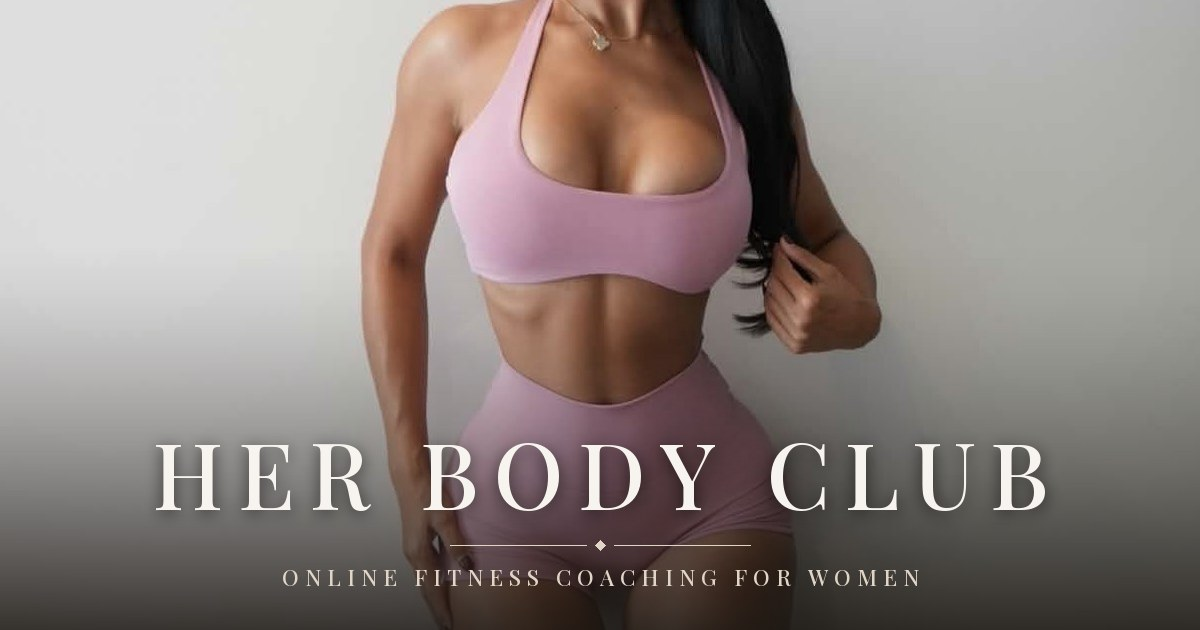
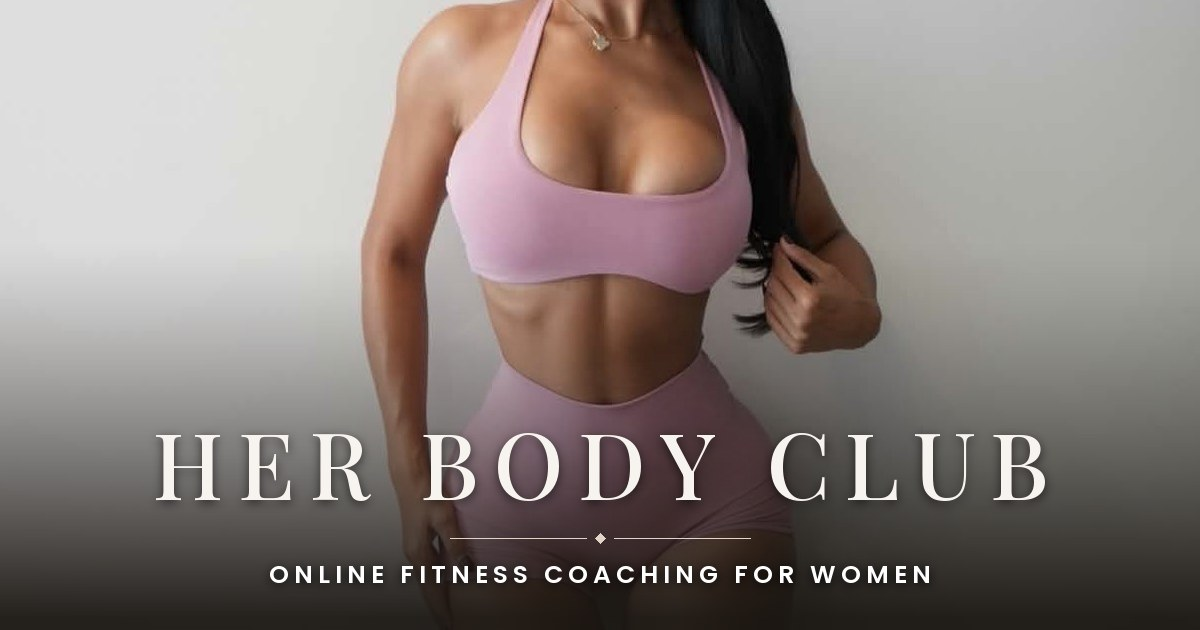
og-desp1

Changed region(s): [[0.0, 0.6635, 0.8017, 0.9952], [0.6475, 0.6635, 0.8942, 0.8143], [0.6475, 0.754, 0.8017, 0.8143]]

diff --git a/apply.html b/apply.html
@@ -8,16 +8,17 @@
   <!-- Open Graph / Social Sharing -->
   <meta property="og:type"        content="website" />
   <meta property="og:title"       content="Apply for 1:1 Coaching | HER BODY CLUB" />
+  <meta property="og:description" content="Lose 10–20 lbs, Build a leaner, stronger body you love seeing in photos and showing off on holiday, without spending hours in the gym or giving up dinners out and the foods you love." />
   <meta property="og:url"         content="https://www.herbodyclub.com/apply.html" />
   <meta property="og:site_name"   content="HER BODY CLUB" />
-  <meta property="og:image" content="https://www.herbodyclub.com/images/og-cover.jpg" />
-  <meta property="og:image:secure_url" content="https://www.herbodyclub.com/images/og-cover.jpg" />
+  <meta property="og:image" content="https://www.herbodyclub.com/images/og-cover.jpg?v=2" />
+  <meta property="og:image:secure_url" content="https://www.herbodyclub.com/images/og-cover.jpg?v=2" />
   <meta property="og:image:type" content="image/jpeg" />
   <meta property="og:image:width" content="1200" />
   <meta property="og:image:height" content="630" />
   <meta property="og:image:alt" content="HER BODY CLUB — Online Fitness Coaching for Women" />
   <meta name="twitter:card" content="summary_large_image" />
-  <meta name="twitter:image" content="https://www.herbodyclub.com/images/og-cover.jpg" />
+  <meta name="twitter:image" content="https://www.herbodyclub.com/images/og-cover.jpg?v=2" />
 
   <link rel="preconnect" href="https://fonts.googleapis.com" />
   <link rel="preconnect" href="https://fonts.gstatic.com" crossorigin />

diff --git a/index.html b/index.html
@@ -9,10 +9,11 @@
   <!-- Open Graph / Social Sharing -->
   <meta property="og:type" content="website" />
   <meta property="og:title" content="Her Body Club | Online Fitness Coaching for Women" />
+  <meta property="og:description" content="Lose 10–20 lbs, Build a leaner, stronger body you love seeing in photos and showing off on holiday, without spending hours in the gym or giving up dinners out and the foods you love." />
   <meta property="og:url" content="https://www.herbodyclub.com/" />
   <meta property="og:site_name" content="HER BODY CLUB" />
-  <meta property="og:image" content="https://www.herbodyclub.com/images/og-cover.jpg" />
-  <meta property="og:image:secure_url" content="https://www.herbodyclub.com/images/og-cover.jpg" />
+  <meta property="og:image" content="https://www.herbodyclub.com/images/og-cover.jpg?v=2" />
+  <meta property="og:image:secure_url" content="https://www.herbodyclub.com/images/og-cover.jpg?v=2" />
   <meta property="og:image:type" content="image/jpeg" />
   <meta property="og:image:width" content="1200" />
   <meta property="og:image:height" content="630" />
@@ -20,7 +21,7 @@
 
   <!-- Twitter / X Card -->
   <meta name="twitter:card" content="summary_large_image" />
-  <meta name="twitter:image" content="https://www.herbodyclub.com/images/og-cover.jpg" />
+  <meta name="twitter:image" content="https://www.herbodyclub.com/images/og-cover.jpg?v=2" />
   <meta name="twitter:title" content="HER BODY CLUB | Online Fitness Coaching for Women" />
 
   <link rel="preconnect" href="https://fonts.googleapis.com" />
